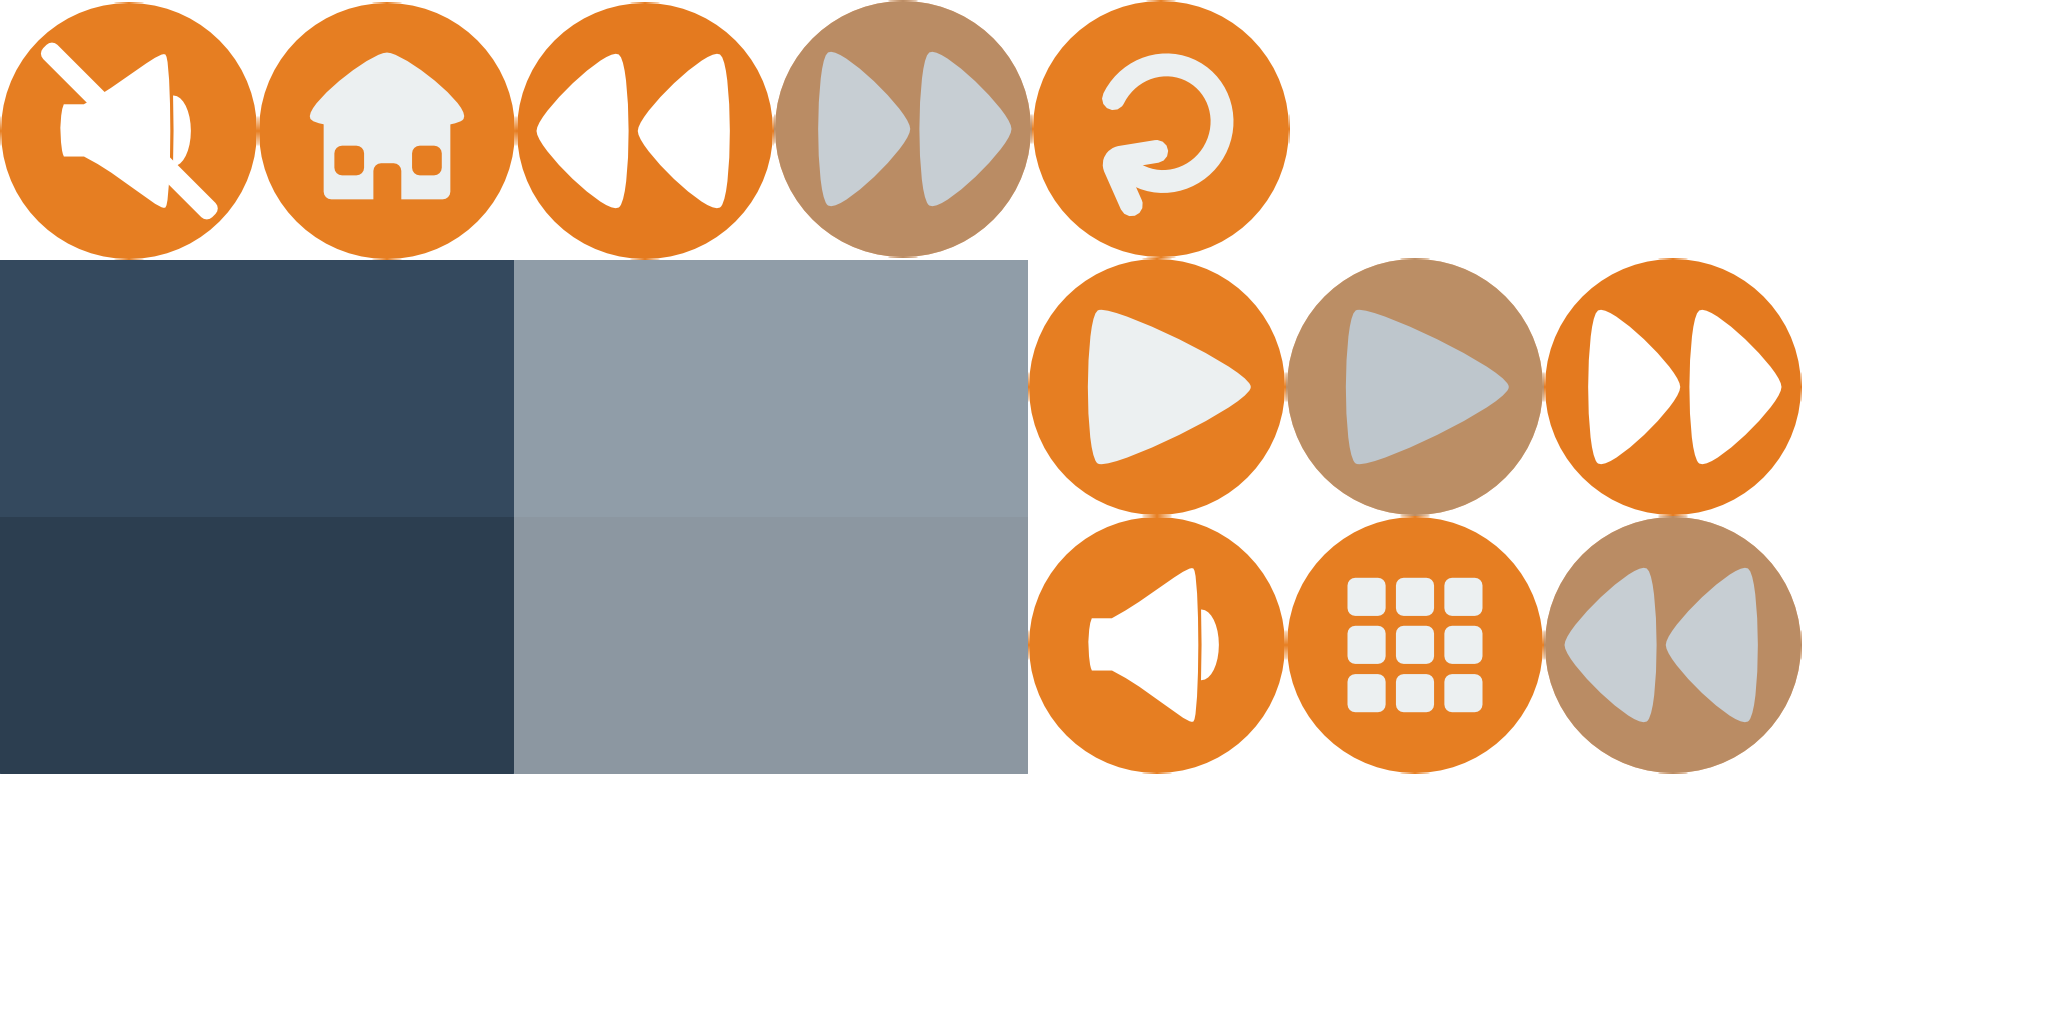
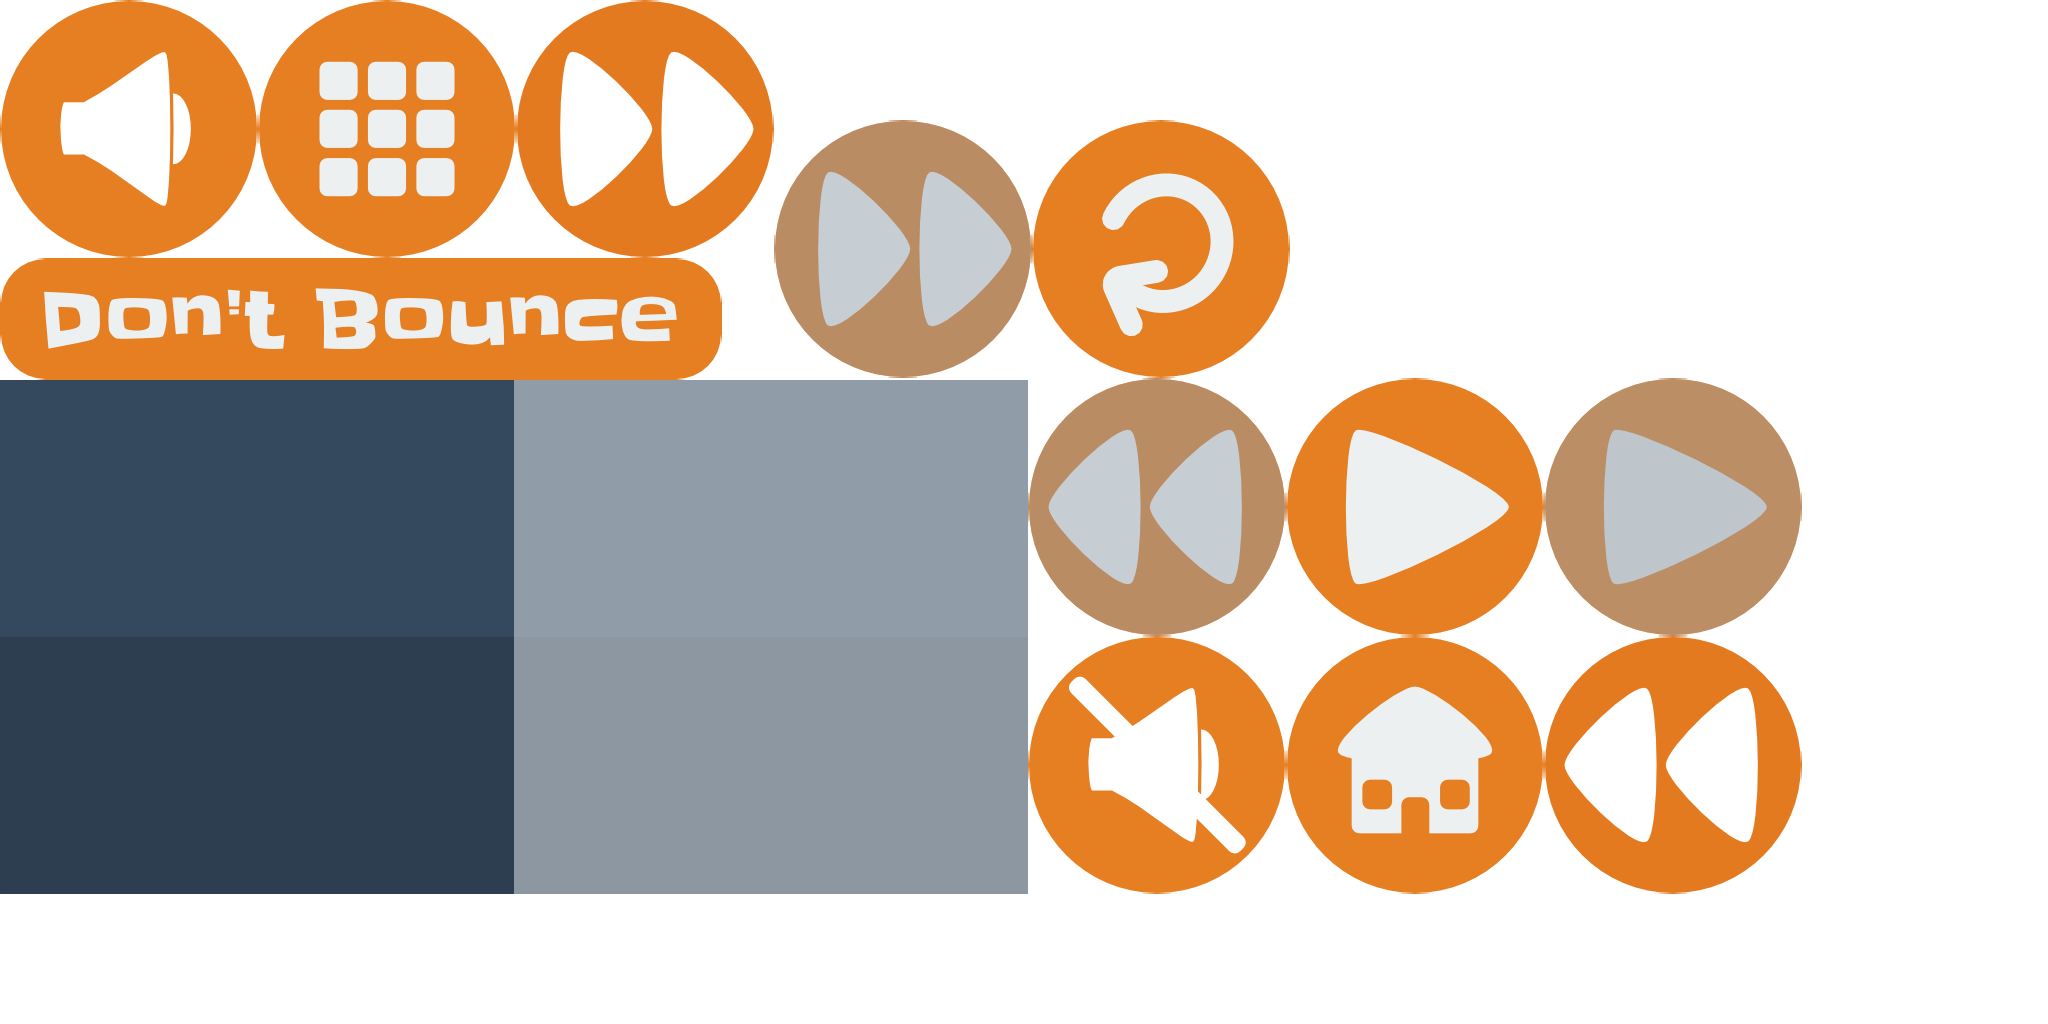
Menu fix

diff --git a/core/src/com/mygdx/game/AppStates/MenuState.java b/core/src/com/mygdx/game/AppStates/MenuState.java
@@ -9,6 +9,7 @@ import com.badlogic.gdx.graphics.g2d.SpriteBatch;
 import com.badlogic.gdx.graphics.g2d.TextureAtlas;
 import com.badlogic.gdx.scenes.scene2d.Actor;
 import com.badlogic.gdx.scenes.scene2d.Stage;
+import com.badlogic.gdx.scenes.scene2d.ui.Image;
 import com.badlogic.gdx.scenes.scene2d.ui.ImageButton;
 import com.badlogic.gdx.scenes.scene2d.ui.Label;
 import com.badlogic.gdx.scenes.scene2d.ui.Skin;
@@ -23,7 +24,8 @@ public class MenuState extends State
 
     private BitmapFont m_font;
     private ImageButton m_playBtn, m_levelBtn, m_soundBtn;
-    private Label m_heading;
+    //private Label m_heading;
+    private Image m_logo;
     private Skin m_skin;
     private Stage m_stage;
     private StateManager m_sm;
@@ -54,8 +56,9 @@ public class MenuState extends State
 
         Label.LabelStyle ls = new Label.LabelStyle(m_font, new Color(1,0.65f,0,0.8f));
 
-        m_heading = new Label("Don't Bounce", ls);
-        m_heading.setFontScale(0.6f);
+        //m_heading = new Label("Don't Bounce", ls);
+        //m_heading.setFontScale(0.6f);
+        m_logo = new Image(m_skin.getDrawable("logo"));
 
 
         // Buttons
@@ -85,7 +88,8 @@ public class MenuState extends State
         Table controls = new Table();
         Table footer = new Table();
 
-        table.add(m_heading).expand(0, 2).bottom();
+        //table.add(m_heading).expand(0, 2).bottom();
+        table.add(m_logo).width(m_config.m_worldW*0.8f).expand(0, 2).bottom();
         table.row();
         table.add(controls).expandY();
         table.row();

diff --git a/core/src/com/mygdx/game/AppStates/LevelSelectState.java b/core/src/com/mygdx/game/AppStates/LevelSelectState.java
@@ -15,6 +15,7 @@ import com.badlogic.gdx.scenes.scene2d.ui.Table;
 import com.badlogic.gdx.scenes.scene2d.ui.TextButton;
 import com.badlogic.gdx.scenes.scene2d.ui.TextButton.TextButtonStyle;
 import com.badlogic.gdx.scenes.scene2d.utils.ChangeListener;
+import com.badlogic.gdx.utils.Align;
 import com.badlogic.gdx.utils.viewport.StretchViewport;
 import com.mygdx.game.Basics.MenuBackground;
 import com.mygdx.game.levels.Chapter;
@@ -106,8 +107,8 @@ public class LevelSelectState extends State
         nextBtnStyle.down = m_skin.getDrawable("next");
         m_nextBtn = new ImageButton(nextBtnStyle);
 
-        m_controlTable.add(m_prevBtn).expandX();
-        m_controlTable.add(m_nextBtn).expandX();
+        m_controlTable.add(m_nextBtn).width(m_config.m_worldW/4).height(m_config.m_worldW/4).left();
+        m_controlTable.add(m_prevBtn).width(m_config.m_worldW/4).height(m_config.m_worldW/4).right();
     }
 
     private void setChapter()
